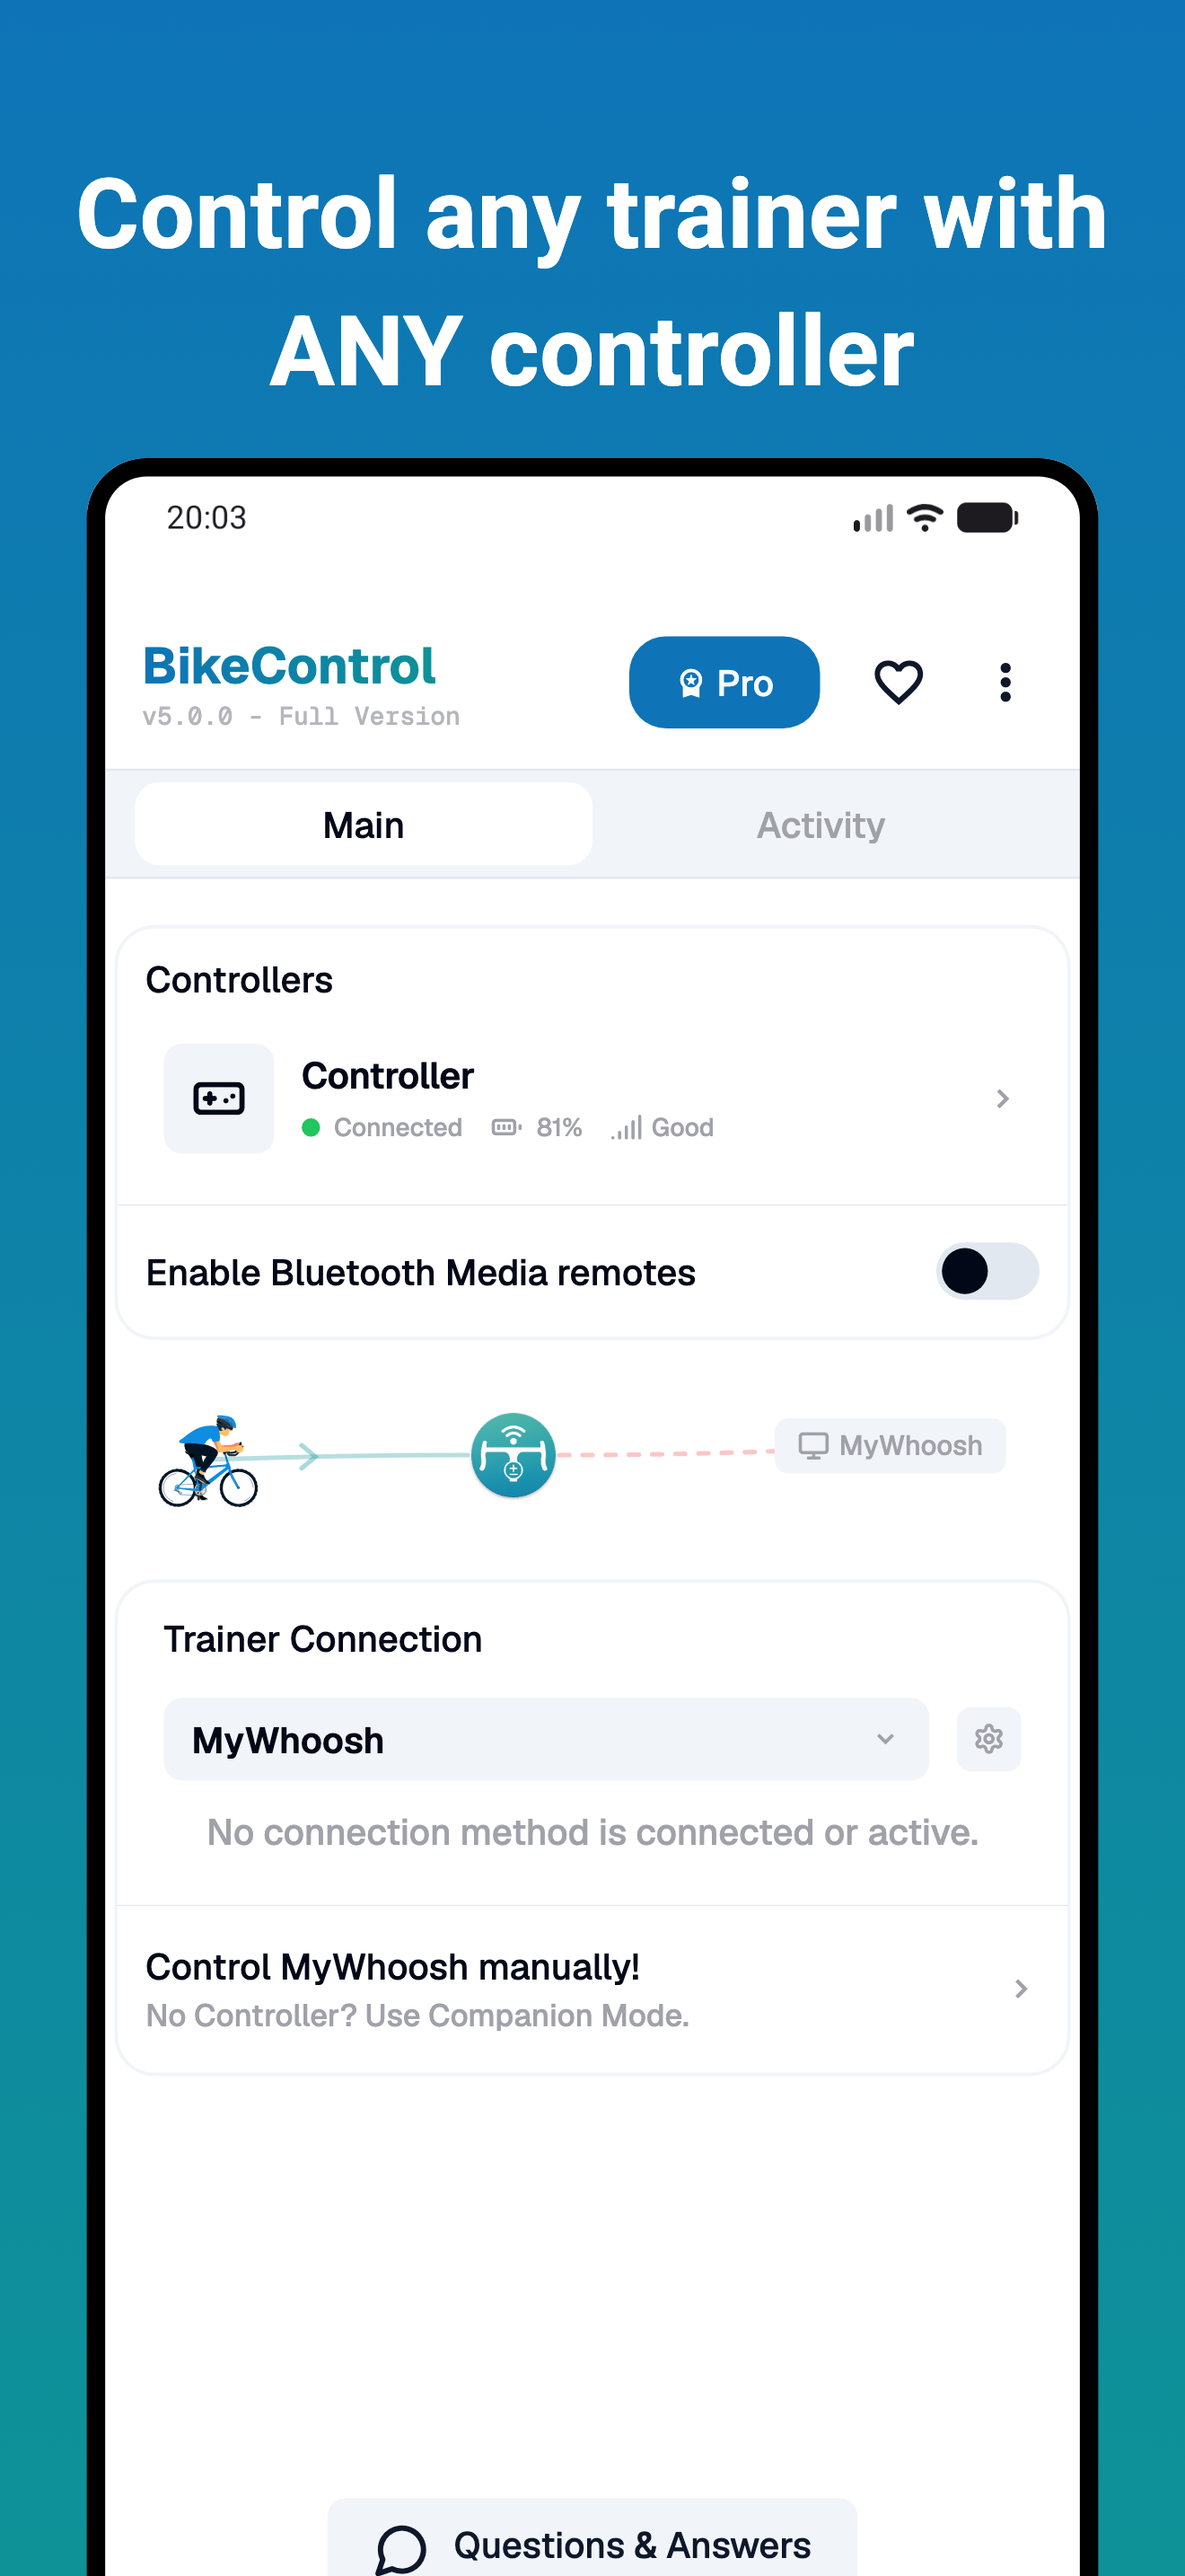
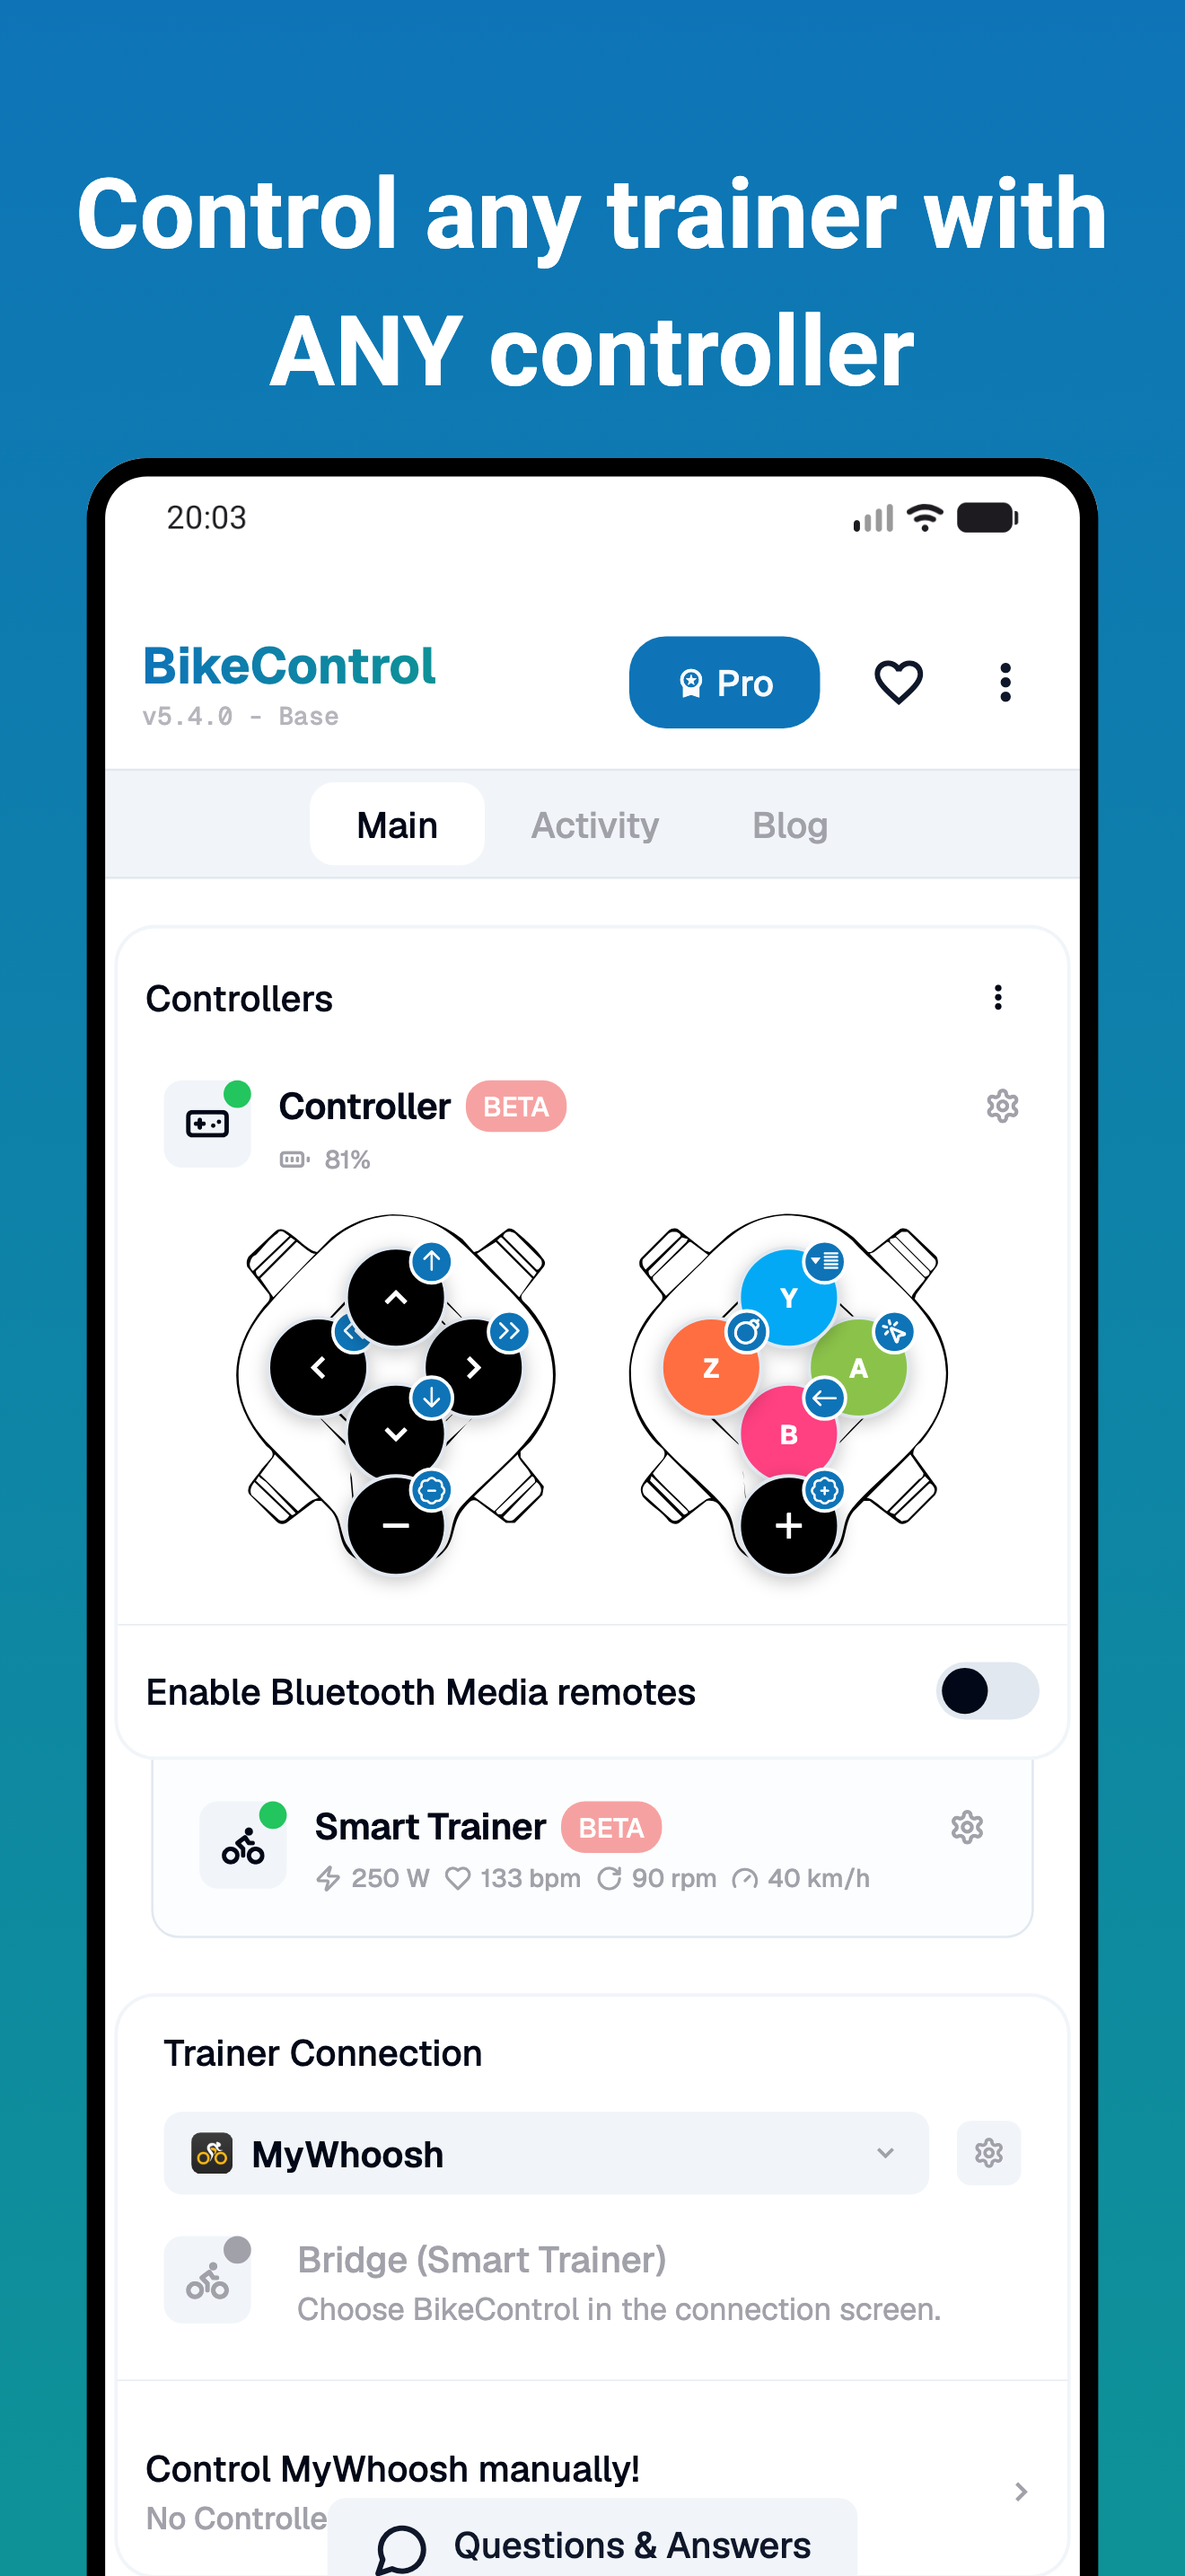
screenshot adjustments

diff --git a/test/screenshot_test.dart b/test/screenshot_test.dart
@@ -1,13 +1,18 @@
+import 'package:bike_control/bluetooth/devices/proxy/proxy_device.dart';
 import 'package:bike_control/bluetooth/devices/zwift/constants.dart';
-import 'package:bike_control/bluetooth/devices/zwift/zwift_ride.dart';
+import 'package:bike_control/bluetooth/devices/zwift/zwift_clickv2.dart';
 import 'package:bike_control/bluetooth/messages/notification.dart';
 import 'package:bike_control/main.dart';
 import 'package:bike_control/pages/button_simulator.dart';
 import 'package:bike_control/pages/controller_settings.dart';
+import 'package:bike_control/pages/proxy_device_details.dart';
+import 'package:bike_control/pages/proxy_device_details/gear_ratios_editor_page.dart';
 import 'package:bike_control/pages/trainer_connection_settings.dart';
 import 'package:bike_control/utils/core.dart' show core;
 import 'package:bike_control/utils/iap/iap_manager.dart';
+import 'package:bike_control/utils/keymap/apps/bike_control.dart';
 import 'package:bike_control/utils/keymap/apps/my_whoosh.dart';
+import 'package:bike_control/utils/keymap/apps/zwift.dart';
 import 'package:bike_control/utils/keymap/buttons.dart';
 import 'package:bike_control/utils/keymap/keymap.dart';
 import 'package:bike_control/utils/requirements/multi.dart';
@@ -17,6 +22,9 @@ import 'package:flutter_test/flutter_test.dart';
 import 'package:golden_screenshot/golden_screenshot.dart';
 import 'package:integration_test/integration_test.dart';
 import 'package:package_info_plus/package_info_plus.dart';
+import 'package:prop/emulators/definitions/fitness_bike_definition.dart';
+import 'package:prop/emulators/dircon_emulator.dart';
+import 'package:prop/emulators/transporter/network_transporter.dart';
 import 'package:prop/protocol/zp.pbenum.dart';
 import 'package:shadcn_flutter/shadcn_flutter.dart';
 import 'package:shared_preferences/shared_preferences.dart';
@@ -38,7 +46,7 @@ Future<void> main() async {
   PackageInfo.setMockInitialValues(
     appName: 'BikeControl',
     packageName: 'de.jonasbark.swiftcontrol',
-    version: '5.0.0',
+    version: '5.4.0',
     buildNumber: '1',
     buildSignature: '',
   );
@@ -54,7 +62,7 @@ Future<void> main() async {
   final keymap = MyWhoosh();
 
   final device =
-      ZwiftRide(
+      ZwiftClickV2(
           BleDevice(
             name: 'Controller',
             deviceId: '00:11:22:33:44:55',
@@ -65,12 +73,40 @@ Future<void> main() async {
         ..rssi = -51
         ..batteryLevel = 81;
 
-  core.connection.addDevices([device]);
+  final proxy =
+      ProxyDevice(
+          BleDevice(
+            name: 'Smart Trainer',
+            deviceId: '00:11:22:33:44:55',
+            services: [
+              FitnessBikeDefinition.FITNESS_MACHINE_SERVICE_UUID,
+            ],
+          ),
+        )
+        ..services = [
+          BleService(FitnessBikeDefinition.FITNESS_MACHINE_SERVICE_UUID, []),
+        ]
+        ..firmwareVersion = '1.2.0'
+        ..isConnected = true
+        ..rssi = -51;
+
+  proxy.emulator.debugSetTransporter(
+    NetworkTransporter(
+      definition: FitnessBikeDefinition(
+        connectedDevice: proxy.scanResult,
+        connectedDeviceServices: proxy.services!,
+        data: ValueNotifier(''),
+      )..setDebugValues(),
+    ),
+  );
+
+  core.connection.addDevices([device, proxy]);
 
   final firstButton = ZwiftButtons.b.copyWith(sourceDeviceId: device.uniqueId);
   final keyEntry = keymap.keymap.getOrCreateKeyPair(firstButton, trigger: ButtonTrigger.longPress);
   keyEntry.inGameAction = InGameAction.steerRight;
 
+  core.settings.setRetrofitMode(proxy.trainerKey, RetrofitMode.wifi);
   core.settings.setTrainerApp(keymap);
   core.settings.setKeyMap(keymap);
   core.settings.setLastTarget(Target.thisDevice);
@@ -168,6 +204,8 @@ Future<void> main() async {
 
   testGoldens('Trainer', (WidgetTester tester) async {
     IAPManager.instance.isPurchased.value = true;
+    core.settings.setTrainerApp(BikeControl());
+    core.settings.setKeyMap(BikeControl());
     screenshotMode = true;
     for (final size in sizes) {
       await tester.pumpWidget(
@@ -207,6 +245,8 @@ Future<void> main() async {
 
   testGoldens('Customization', (WidgetTester tester) async {
     IAPManager.instance.isPurchased.value = true;
+    core.settings.setTrainerApp(keymap);
+    core.settings.setKeyMap(keymap);
     screenshotMode = true;
 
     for (final size in sizes) {
@@ -249,6 +289,8 @@ Future<void> main() async {
     IAPManager.instance.isPurchased.value = true;
     screenshotMode = true;
 
+    core.settings.setTrainerApp(keymap);
+    core.settings.setKeyMap(keymap);
     core.settings.setMyWhooshLinkEnabled(true);
     core.whooshLink.isConnected.value = true;
     for (final size in sizes) {
@@ -282,6 +324,97 @@ Future<void> main() async {
         find.byType(ma.Scaffold),
         matchesGoldenFile(
           '../screenshots/companion-${size.type.name}-${size.size.width.toInt()}x${size.size.height.toInt()}.png',
+        ),
+      );
+    }
+  });
+
+  testGoldens('Virtual Shifting', (WidgetTester tester) async {
+    IAPManager.instance.isPurchased.value = true;
+    screenshotMode = true;
+
+    core.settings.setTrainerApp(keymap);
+    core.settings.setKeyMap(keymap);
+    core.settings.setMyWhooshLinkEnabled(true);
+    core.whooshLink.isConnected.value = true;
+    for (final size in sizes) {
+      await tester.pumpWidget(
+        ScreenshotApp(
+          device: ScreenshotDevice(
+            platform: size.platform,
+            resolution: size.size,
+            pixelRatio: 3,
+            goldenSubFolder: 'iphoneScreenshots/',
+            frameBuilder:
+                ({
+                  required ScreenshotDevice device,
+                  required ScreenshotFrameColors? frameColors,
+                  required Widget child,
+                }) => CustomFrame(
+                  platform: size.type,
+                  title: 'Add or adjust Virtual Shifting functionality',
+                  device: device,
+                  child: child,
+                ),
+          ),
+          home: BikeControlApp(
+            customChild: ProxyDeviceDetailsPage(device: proxy),
+          ),
+        ),
+      );
+
+      await tester.pump();
+      await expectLater(
+        find.byType(ma.Scaffold),
+        matchesGoldenFile(
+          '../screenshots/virtualshifting-${size.type.name}-${size.size.width.toInt()}x${size.size.height.toInt()}.png',
+        ),
+      );
+    }
+  });
+
+  testGoldens('Virtual Shifting Settings', (WidgetTester tester) async {
+    IAPManager.instance.isPurchased.value = true;
+    screenshotMode = true;
+
+    core.settings.setTrainerApp(Zwift());
+    core.settings.setKeyMap(Zwift());
+    core.settings.setMyWhooshLinkEnabled(true);
+    core.whooshLink.isConnected.value = true;
+    for (final size in sizes) {
+      await tester.pumpWidget(
+        ScreenshotApp(
+          device: ScreenshotDevice(
+            platform: size.platform,
+            resolution: size.size,
+            pixelRatio: 3,
+            goldenSubFolder: 'iphoneScreenshots/',
+            frameBuilder:
+                ({
+                  required ScreenshotDevice device,
+                  required ScreenshotFrameColors? frameColors,
+                  required Widget child,
+                }) => CustomFrame(
+                  platform: size.type,
+                  title: 'Full Control of Virtual Shifting',
+                  device: device,
+                  child: child,
+                ),
+          ),
+          home: BikeControlApp(
+            customChild: GearRatiosEditorPage(
+              device: proxy,
+              definition: proxy.emulator.activeDefinition as FitnessBikeDefinition,
+            ),
+          ),
+        ),
+      );
+
+      await tester.pump();
+      await expectLater(
+        find.byType(ma.Scaffold),
+        matchesGoldenFile(
+          '../screenshots/virtualshifting-settings-${size.type.name}-${size.size.width.toInt()}x${size.size.height.toInt()}.png',
         ),
       );
     }

diff --git a/lib/pages/proxy_device_details.dart b/lib/pages/proxy_device_details.dart
@@ -3,6 +3,7 @@ import 'dart:async';
 import 'package:bike_control/bluetooth/devices/base_device.dart';
 import 'package:bike_control/bluetooth/devices/proxy/proxy_device.dart';
 import 'package:bike_control/gen/l10n.dart';
+import 'package:bike_control/main.dart';
 import 'package:bike_control/pages/proxy_device_details/connection_card.dart';
 import 'package:bike_control/pages/proxy_device_details/gear_hero_card.dart';
 import 'package:bike_control/pages/proxy_device_details/live_metrics_section.dart';
@@ -90,27 +91,32 @@ class _ProxyDeviceDetailsPageState extends State<ProxyDeviceDetailsPage> {
               children: [
                 _deviceCard(),
                 SizedBox(height: 12),
-                Button(
-                  style: ButtonStyle.primary(),
-                  onPressed: () {
-                    Navigator.of(context).push(
-                      MaterialPageRoute(builder: (_) => TrainerFeedbackPage(device: device)),
-                    );
-                  },
-                  leading: const Icon(LucideIcons.messageSquare, size: 18),
-                  child: const Text('Provide Feedback'),
-                ),
+                if (!screenshotMode)
+                  Button(
+                    style: ButtonStyle.primary(),
+                    onPressed: () {
+                      Navigator.of(context).push(
+                        MaterialPageRoute(builder: (_) => TrainerFeedbackPage(device: device)),
+                      );
+                    },
+                    leading: const Icon(LucideIcons.messageSquare, size: 18),
+                    child: const Text('Provide Feedback'),
+                  ),
                 SizedBox(height: 12),
                 if (_ftmsMissingWarning() case final w?) ...[
                   w,
                   SizedBox(height: 12),
                 ],
-                ConnectionCard(device: device),
-                SizedBox(height: 12),
+
+                if (!screenshotMode) ...[
+                  ConnectionCard(device: device),
+                  SizedBox(height: 12),
+                ],
                 _gearSection(),
                 SizedBox(height: 20),
                 if (!IAPManager.instance.isProEnabledForCurrentDevice &&
-                    widget.device.emulator.activeDefinition is FitnessBikeDefinition) ...[
+                    widget.device.emulator.activeDefinition is FitnessBikeDefinition &&
+                    !screenshotMode) ...[
                   ValueListenableBuilder<Duration>(
                     valueListenable: core.bridgeUsageTracker.usedTodayListenable,
                     builder: (context, used, _) {

diff --git a/lib/bluetooth/devices/proxy/proxy_device.dart b/lib/bluetooth/devices/proxy/proxy_device.dart
@@ -5,6 +5,7 @@ import 'package:bike_control/bluetooth/devices/bluetooth_device.dart';
 import 'package:bike_control/bluetooth/devices/zwift/constants.dart';
 import 'package:bike_control/bluetooth/messages/notification.dart';
 import 'package:bike_control/gen/l10n.dart';
+import 'package:bike_control/main.dart';
 import 'package:bike_control/utils/actions/base_actions.dart';
 import 'package:bike_control/utils/core.dart';
 import 'package:bike_control/utils/iap/iap_manager.dart';
@@ -218,6 +219,14 @@ class ProxyDevice extends BluetoothDevice {
   @override
   List<Widget> showMetaInformation(BuildContext context, {required bool showFull}) {
     if (isConnected) {
+      if (screenshotMode) {
+        final parts = <Widget>[];
+        _addMetric(parts, context, 250, 'W', LucideIcons.zap);
+        _addMetric(parts, context, 133, 'bpm', LucideIcons.heart);
+        _addMetric(parts, context, 90, 'rpm', LucideIcons.rotateCw);
+        _addMetric(parts, context, 40, 'km/h', LucideIcons.gauge);
+        return parts;
+      }
       return [
         ValueListenableBuilder<String>(
           valueListenable: emulator.data,

diff --git a/lib/bluetooth/devices/zwift/zwift_clickv2.dart b/lib/bluetooth/devices/zwift/zwift_clickv2.dart
@@ -1,6 +1,7 @@
 import 'package:bike_control/bluetooth/devices/zwift/constants.dart';
 import 'package:bike_control/bluetooth/devices/zwift/zwift_ride.dart';
 import 'package:bike_control/gen/l10n.dart';
+import 'package:bike_control/main.dart';
 import 'package:bike_control/pages/unlock.dart';
 import 'package:bike_control/utils/i18n_extension.dart';
 import 'package:bike_control/utils/interpreter.dart';
@@ -70,7 +71,7 @@ class ZwiftClickV2 extends ZwiftRide {
 
   @override
   String toString() {
-    return "Zwift Click V2";
+    return screenshotMode ? 'Controller' : "Zwift Click V2";
   }
 
   bool get isUnlocked {
@@ -126,7 +127,7 @@ class ZwiftClickV2 extends ZwiftRide {
   @override
   List<Widget> showAdditionalInformation(BuildContext context) {
     final lastUnlockDate = propPrefs.getZwiftClickV2LastUnlock(scanResult.deviceId);
-    if (!isConnected) return [];
+    if (!isConnected || screenshotMode) return [];
     if (isUnlocked && lastUnlockDate != null && isLikelyUnlocked) {
       return [
         Warning(

diff --git a/lib/pages/proxy_device_details/gear_ratios_editor_page.dart b/lib/pages/proxy_device_details/gear_ratios_editor_page.dart
@@ -1,6 +1,7 @@
 import 'dart:ui';
 
 import 'package:bike_control/bluetooth/devices/proxy/proxy_device.dart';
+import 'package:bike_control/main.dart';
 import 'package:bike_control/models/shifting_config.dart';
 import 'package:bike_control/pages/proxy_device_details/gear_hero_card.dart';
 import 'package:bike_control/pages/proxy_device_details/gear_ratio_curve.dart';
@@ -106,9 +107,11 @@ class _GearRatiosEditorPageState extends State<GearRatiosEditorPage> {
               spacing: 18,
               children: [
                 _intro(context),
-                GearHeroCard(definition: def, simOnly: true),
-                _vsModeCard(),
-                _gradeSmoothingCard(context),
+                if (!screenshotMode) ...[
+                  GearHeroCard(definition: def, simOnly: true),
+                  _vsModeCard(),
+                  _gradeSmoothingCard(context),
+                ],
                 _gearCountCard(context),
                 _heroCurve(context),
                 _presets(context),

diff --git a/lib/pages/overview.dart b/lib/pages/overview.dart
@@ -281,7 +281,9 @@ class _OverviewPageState extends State<OverviewPage> with TickerProviderStateMix
 
   @override
   void dispose() {
-    WakelockPlus.disable();
+    if (!screenshotMode) {
+      WakelockPlus.disable();
+    }
     WidgetsBinding.instance.removeObserver(this);
     _horizontalScrollController.dispose();
 
@@ -735,7 +737,7 @@ class _OverviewPageState extends State<OverviewPage> with TickerProviderStateMix
                     title: connected ? Text(title).small.semiBold : Text(title).small.muted,
                     subtitle: Text(
                       context.i18n.chooseBikeControlInConnectionScreen.replaceAll(
-                        'BikeControl',
+                        screenshotMode ? '1337' : 'BikeControl',
                         device.emulator.advertisementName,
                       ),
                     ).xSmall.textMuted,

diff --git a/lib/pages/device.dart b/lib/pages/device.dart
@@ -77,7 +77,7 @@ class _DevicePageState extends State<DevicePage> {
                     child: device.showInformation(
                       context,
                       showFull: false,
-                      footer: !screenshotMode ? widget.footerBuilder(device) : null,
+                      footer: widget.footerBuilder(device),
                     ),
                   ),
                 ),
